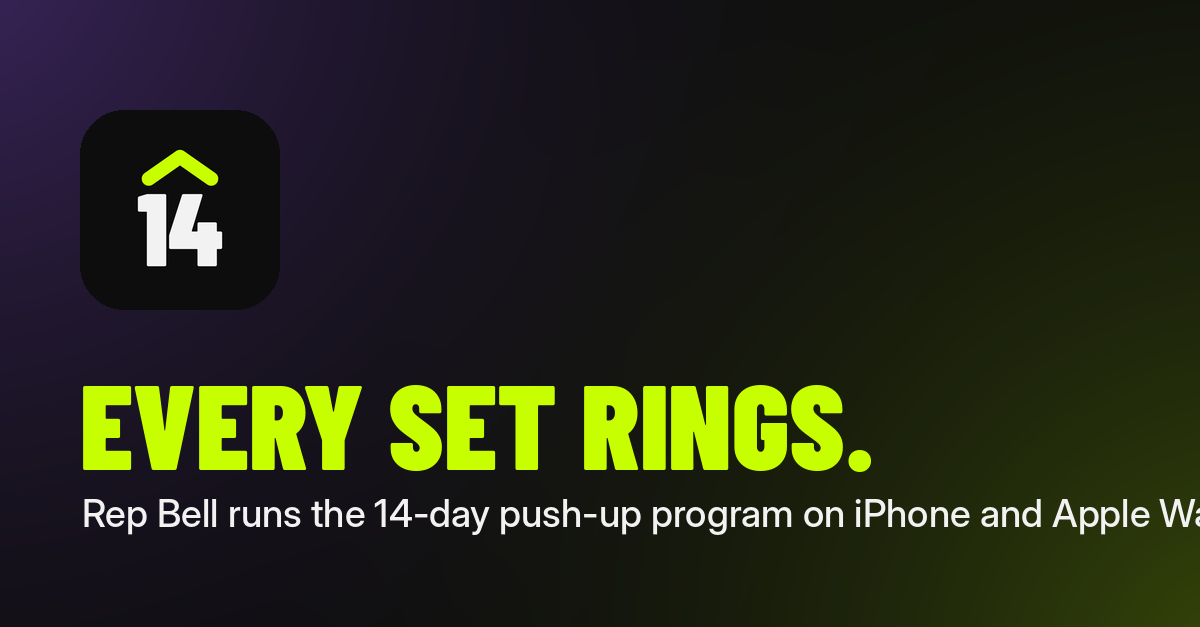
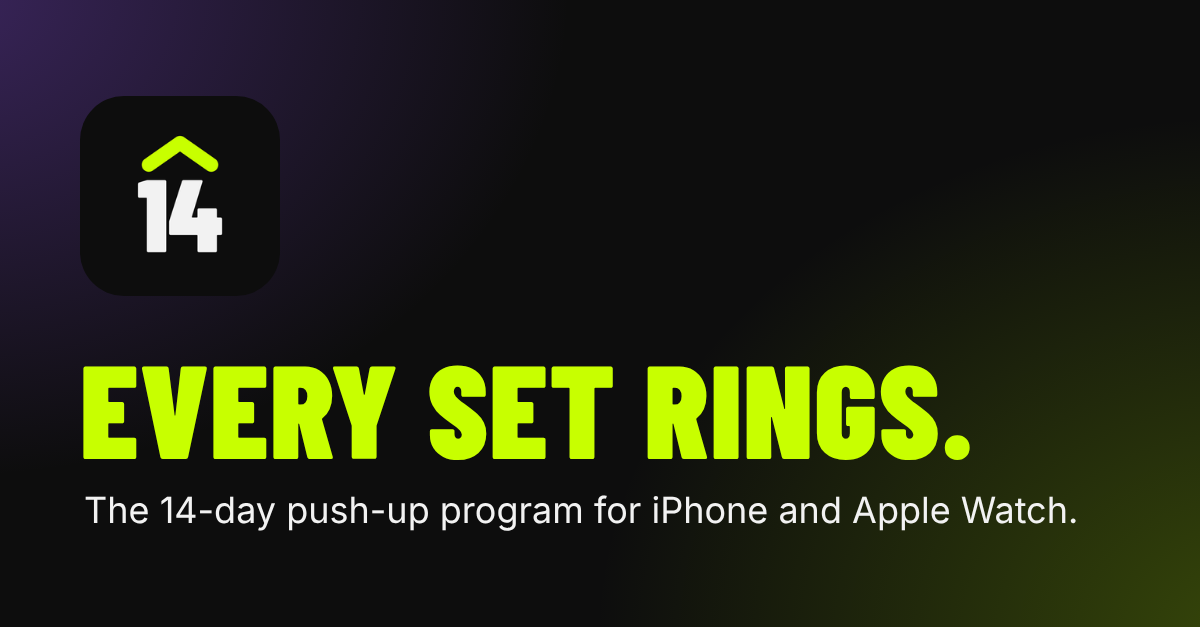
Website review fixes: no coach media on the site, accurate ring and coach claims, Health wording, kicker contrast, main-only manual publish, site go-ahead rule
Claude-Session: https://claude.ai/code/session_01JnUP7zL2BBsNy9Ph3f7pPy

diff --git a/site/index.html b/site/index.html
@@ -10,7 +10,7 @@
 <meta property="og:type" content="website">
 <meta property="og:url" content="https://repbell.tangomike.app/">
 <meta property="og:site_name" content="Rep Bell">
-<meta property="og:image" content="https://repbell.tangomike.app/img/og.png?v=1">
+<meta property="og:image" content="https://repbell.tangomike.app/img/og.png?v=2">
 <meta property="og:image:width" content="1200">
 <meta property="og:image:height" content="627">
 <meta property="og:image:alt" content="Rep Bell: Every set rings.">
@@ -18,18 +18,18 @@
 <meta name="theme-color" content="#0D0D0D">
 <link rel="icon" href="/favicon.ico" sizes="any"><link rel="icon" type="image/png" href="/favicon.png">
 <link rel="apple-touch-icon" href="/apple-touch-icon.png">
-<link rel="stylesheet" href="/site.css?v=1">
+<link rel="stylesheet" href="/site.css?v=2">
 </head>
 <body>
 <div class="wrap">
-  <nav aria-label="Rep Bell"><a class="brand" href="/"><img src="/img/icon.png" alt="" width="36" height="36">Rep Bell</a><a class="link" href="/support">Support</a><a class="link" href="/privacy">Privacy</a></nav>
+  <nav aria-label="Rep Bell"><a class="brand" href="/" aria-current="page"><img src="/img/icon.png" alt="" width="36" height="36">Rep Bell</a><a class="link" href="/support">Support</a><a class="link" href="/privacy">Privacy</a></nav>
 
   <header class="hero">
     <div>
       <h1 class="display">Every set<span>rings.</span></h1>
       <p class="lede">Rep Bell runs the 14-day push-up program for you. It works out every set, spreads them across your day, rings when each one is due, and logs it in one tap on iPhone and Apple Watch.</p>
       <div class="ctas"><span class="btn soon">Coming soon to the App Store</span></div>
-      <p class="fine">The 14-day program is free. Workouts and Coach voice are $4.99, once. No subscription, no account, no ads. Everything stays on your phone.</p>
+      <p class="fine">The 14-day program is free. Workouts and Coach voice are $4.99 (US), once. No subscription, no account, no ads. Everything stays on your phone.</p>
     </div>
     <div class="duo">
       <img src="/img/today-between-sets.webp" alt="Rep Bell's Today screen: Day 3 of 14, 24 push-ups in 25 minutes, with today's sets below." width="640" height="1351">
@@ -53,7 +53,7 @@
         <div class="txt">
           <p class="kicker">Your day, your way</p>
           <h2 id="days">Ring or quiet. You pick each morning.</h2>
-          <p>Each program day starts with an alarm at your wake time. Choose <strong>Ring</strong> and every set rings through silent mode, or <strong>Quiet</strong> for a day of meetings, with sets as silent banners. Missed sets are counted, never hidden, and the program carries on.</p>
+          <p>Each program day starts with an alarm at your wake time. Choose <strong>Ring</strong> and sets ring through silent mode (on the busiest days at most every 30 minutes, with banners in between), or <strong>Quiet</strong> for a day of meetings, with sets as silent banners. Missed sets are counted, never hidden, and the program carries on.</p>
           <p>Day 8 and Day 15 are test days, so you see exactly how far you've come.</p>
         </div>
         <img src="/img/progress.webp" alt="Progress: your max went from 40 on Day 1 to 46 on Day 8, up 15 percent." width="640" height="1351" loading="lazy">
@@ -61,14 +61,11 @@
     </section>
 
     <section class="s" aria-labelledby="desk">
-      <div class="split flip">
-        <div class="txt">
+      <div class="solo">
           <p class="kicker">For days spent sitting</p>
           <h2 id="desk">A desk stretch every hour.</h2>
-          <p>Turn on Desk stretch and Rep Bell sends a quiet nudge every hour on weekdays, with a different stretch each time: neck, shoulders, hips, back. It walks you through it, both sides, with a timer.</p>
+          <p>Turn on Desk stretch and Rep Bell sends a quiet nudge every hour on weekdays, with a different stretch each time, for your neck, shoulders, chest, hips or legs. It walks you through it, both sides, with a timer.</p>
           <p>It's free, it works whether or not a program is running, and it never lands on top of a set.</p>
-        </div>
-        <img src="/img/desk-stretch.webp" alt="A desk stretch, shown step by step with a timer." width="640" height="1351" loading="lazy">
       </div>
     </section>
 
@@ -87,7 +84,7 @@
     <section class="s" aria-labelledby="coach">
       <p class="kicker">Coach voice</p>
       <h2 id="coach">A coach that reads your numbers.</h2>
-      <p>After each set, on iPhone and Apple Watch, a short line built from your own counts. Pick the voice you want, or leave it off.</p>
+      <p>After each set you log in the app or on Apple Watch, a short line built from your own counts. Pick the voice you want, or leave it off.</p>
       <div class="voices">
         <div class="voice coaching"><b>Coaching</b><q>420 is your best day yet, up from 380.</q></div>
         <div class="voice push"><b>Push</b><q>The voice saying you've done enough shows up every day. It hasn't been right yet.</q></div>
@@ -100,7 +97,7 @@
       <h2 id="price">The program is free. For good.</h2>
       <div class="price">
         <div class="card"><h3>Free</h3><p class="tag">Everything you need for the 14 days</p><ul><li>Every set worked out from your max</li><li>Alarms and alerts at each set</li><li>One-tap logging on iPhone and Apple Watch</li><li>Progress and test days</li><li>Hourly desk stretch on weekdays</li></ul></div>
-        <div class="card paid"><h3>$4.99, once</h3><p class="tag">Workouts and Coach voice</p><ul><li>Guided Workouts for your time and gear</li><li>Fit my time, from 5 to 45 minutes</li><li>Coach voice: Coaching or Push</li><li>No subscription</li></ul></div>
+        <div class="card paid"><h3>$4.99 (US), once</h3><p class="tag">Workouts and Coach voice</p><ul><li>Guided Workouts for your time and gear</li><li>Fit my time, from 5 to 45 minutes</li><li>Coach voice: Coaching or Push</li><li>No subscription</li></ul></div>
       </div>
     </section>
 
@@ -119,7 +116,7 @@
 
   <footer>
     <div class="row"><span>Made by Graham D. at <a href="https://tangomike.app">tangomike.app</a></span><a href="/support">Support</a><a href="/privacy">Privacy</a><a href="mailto:support@tangomike.app?subject=Rep%20Bell">support@tangomike.app</a></div>
-    <p class="note">Rep Bell is not medical advice. Check with a doctor before starting a new exercise program. Apple, Apple Watch, iPhone and Apple Intelligence are trademarks of Apple Inc.</p>
+    <p class="note">Rep Bell is not medical advice. Check with a doctor before starting a new exercise program. Apple, Apple Watch, iPhone and Apple Intelligence are trademarks of Apple Inc. App Store is a service mark of Apple Inc.</p>
   </footer>
 </div>
 </body>

diff --git a/site/privacy.html b/site/privacy.html
@@ -7,24 +7,25 @@
 <meta name="description" content="Rep Bell collects nothing. No account, no server, no ads, no tracking. Your sets and progress stay on your iPhone and Apple Watch.">
 <meta property="og:title" content="Rep Bell Privacy">
 <meta property="og:description" content="Rep Bell collects nothing. No account, no server, no ads, no tracking. Your sets and progress stay on your iPhone and Apple Watch.">
-<meta property="og:image" content="https://repbell.tangomike.app/img/og.png?v=1">
+<meta property="og:image" content="https://repbell.tangomike.app/img/og.png?v=2">
 <meta name="theme-color" content="#0D0D0D">
 <link rel="icon" href="/favicon.ico" sizes="any"><link rel="icon" type="image/png" href="/favicon.png">
 <link rel="apple-touch-icon" href="/apple-touch-icon.png">
-<link rel="stylesheet" href="/site.css?v=1">
+<link rel="stylesheet" href="/site.css?v=2">
 </head>
 <body>
 <div class="wrap">
   <nav aria-label="Rep Bell"><a class="brand" href="/"><img src="/img/icon.png" alt="" width="36" height="36">Rep Bell</a><a class="link" href="/support">Support</a><a class="link" href="/privacy" aria-current="page">Privacy</a></nav>
+  <main>
   <div class="doc"><h1>Privacy.</h1><p class="lede">Short version: Rep Bell collects nothing. There's no account, no server, no ads and no tracking. Everything stays on your iPhone and Apple Watch.</p><p class="updated">Last updated 25 November 2026</p></div>
-  <main class="docbody">
+  <div class="docbody">
     <p>Rep Bell is made by Graham D. This policy covers the Rep Bell app for iPhone and Apple Watch, and this website.</p>
     <h2>What Rep Bell collects</h2>
     <p>Nothing. Rep Bell has no account, no server and no analytics, and it contains no advertising or third-party tracking code. Everything you enter and everything the app records stays on your iPhone and Apple Watch.</p>
     <h2>What stays on your devices</h2>
     <p>Your push-up maximum, wake and bed times, the program schedule, the sets you log, your Workouts history and your settings are stored only on your devices. Deleting the app deletes them.</p>
     <h2>Apple Health</h2>
-    <p>If you allow it, Rep Bell saves finished Workouts sessions and push-ups to Apple Health. It only writes to Health; it never reads your Health data. You can turn this off at any time in Rep Bell's settings, the Health app or iPhone Settings. Entries already saved to Apple Health stay there until you delete them in Health.</p>
+    <p>If you allow it, Rep Bell saves finished Workouts sessions, and each finished push-up day as one strength workout, to Apple Health. It only writes to Health; it never reads your Health data. You can turn this off at any time: push-up days in Rep Bell's Settings, sessions in Workouts settings, or both in the Health app or iPhone Settings. Entries already saved to Apple Health stay there until you delete them in Health.</p>
     <h2>Alarms and notifications</h2>
     <p>Alarms and alerts for your sets and desk stretches are scheduled on your device. Nothing about them is sent anywhere.</p>
     <h2>Coach voice</h2>
@@ -32,13 +33,14 @@
     <h2>Purchases</h2>
     <p>The one-time unlock is sold through the App Store. Apple handles payment; Rep Bell only receives a confirmation on your device that the unlock is active. Rep Bell never sees your payment details.</p>
     <h2>This website</h2>
-    <p>This site has no cookies, no analytics and no scripts. It's hosted by Cloudflare, which sees each request like any website does (your IP address and the kind of device), not anything from the app.</p>
+    <p>This site has no cookies, no analytics and no scripts. It's hosted by Cloudflare, with no Cloudflare cookies or tracking turned on, which sees each request like any website does (your IP address and the kind of device), not anything from the app.</p>
     <h2>Children</h2>
     <p>Rep Bell is not directed at children under 13 and collects no data from anyone.</p>
     <h2>Changes</h2>
     <p>If this policy changes, the new version will be posted on this page with a new date.</p>
     <h2>Contact</h2>
     <p>Questions about privacy: <a href="mailto:support@tangomike.app?subject=Rep%20Bell%20privacy">support@tangomike.app</a>, with "Rep Bell" in the subject.</p>
+  </div>
   </main>
   <footer>
     <div class="row"><span>Made by Graham D. at <a href="https://tangomike.app">tangomike.app</a></span><a href="/support">Support</a><a href="/privacy">Privacy</a><a href="mailto:support@tangomike.app?subject=Rep%20Bell">support@tangomike.app</a></div>

diff --git a/site/site.css b/site/site.css
@@ -1,7 +1,7 @@
 @font-face { font-family:"Barlow Condensed"; src:url("/fonts/barlow-condensed-800.woff") format("woff"); font-weight:800; font-display:swap; }
 @font-face { font-family:"Barlow Condensed"; src:url("/fonts/barlow-condensed-900.woff") format("woff"); font-weight:900; font-display:swap; }
 /* The app's look: near-black ground, a violet glow behind the top, a volt glow from the bottom right. Volt means now, violet means earned. */
-:root { --ground:#0D0D0D; --surface:#1A1A1A; --line:#2A2A2A; --ink:#F2F2F2; --muted:#A0A0A0; --volt:#C8FF00; --on-volt:#0D0D0D; --violet:#A066FF; --flood:#202B06; }
+:root { --ground:#0D0D0D; --surface:#1A1A1A; --line:#2A2A2A; --ink:#F2F2F2; --muted:#A0A0A0; --volt:#C8FF00; --on-volt:#0D0D0D; --violet:#A066FF; --violet-text:#C4A6FF; --flood:#202B06; }
 * { box-sizing:border-box; }
 html { -webkit-text-size-adjust:100%; background:var(--ground); }
 body { margin:0; min-height:100vh; color:var(--ink); font-family:system-ui,-apple-system,"Segoe UI",sans-serif; -webkit-font-smoothing:antialiased; background:transparent; isolation:isolate; }
@@ -35,7 +35,7 @@ nav a.link:hover, nav a.link[aria-current] { color:var(--ink); }
 .duo .low { margin-top:72px; }
 /* sections */
 section.s { padding:88px 0; border-top:1px solid var(--line); }
-.kicker { font-size:14px; letter-spacing:.14em; text-transform:uppercase; color:var(--violet); margin:0 0 14px; font-weight:600; }
+.kicker { font-size:14px; letter-spacing:.14em; text-transform:uppercase; color:var(--violet-text); margin:0 0 14px; font-weight:600; }
 h2 { margin:0; font-family:"Barlow Condensed",system-ui,sans-serif; font-weight:900; text-transform:uppercase; font-size:clamp(40px, 5.4vw, 68px); line-height:.95; }
 section p { color:var(--muted); font-size:18px; line-height:1.6; max-width:36em; }
 section p strong { color:var(--ink); font-weight:600; }
@@ -47,10 +47,11 @@ section p strong { color:var(--ink); font-weight:600; }
 .split { display:grid; grid-template-columns:1fr 1fr; gap:56px; align-items:center; }
 .split img { width:100%; max-width:300px; height:auto; display:block; margin:0 auto; filter:drop-shadow(0 24px 36px rgba(0,0,0,.5)); }
 .split.flip .txt { order:2; }
+.solo { max-width:760px; }
 .voices { display:grid; gap:14px; margin-top:28px; max-width:36em; }
 .voice { border:1px solid var(--line); background:rgba(26,26,26,.6); border-radius:16px; padding:18px 20px; }
 .voice b { display:block; font-size:13px; letter-spacing:.12em; text-transform:uppercase; margin-bottom:8px; }
-.voice.coaching b { color:var(--violet); }
+.voice.coaching b { color:var(--violet-text); }
 .voice.push b { color:var(--volt); }
 .voice q { color:var(--ink); font-size:18px; line-height:1.5; quotes:none; }
 .ticks { list-style:none; padding:0; margin:24px 0 0; display:grid; gap:12px; max-width:36em; }

diff --git a/site/support.html b/site/support.html
@@ -7,17 +7,18 @@
 <meta name="description" content="Help with Rep Bell: alerts, missed sets, restoring a purchase, refunds and your data.">
 <meta property="og:title" content="Rep Bell Support">
 <meta property="og:description" content="Help with Rep Bell: alerts, missed sets, restoring a purchase, refunds and your data.">
-<meta property="og:image" content="https://repbell.tangomike.app/img/og.png?v=1">
+<meta property="og:image" content="https://repbell.tangomike.app/img/og.png?v=2">
 <meta name="theme-color" content="#0D0D0D">
 <link rel="icon" href="/favicon.ico" sizes="any"><link rel="icon" type="image/png" href="/favicon.png">
 <link rel="apple-touch-icon" href="/apple-touch-icon.png">
-<link rel="stylesheet" href="/site.css?v=1">
+<link rel="stylesheet" href="/site.css?v=2">
 </head>
 <body>
 <div class="wrap">
   <nav aria-label="Rep Bell"><a class="brand" href="/"><img src="/img/icon.png" alt="" width="36" height="36">Rep Bell</a><a class="link" href="/support" aria-current="page">Support</a><a class="link" href="/privacy">Privacy</a></nav>
+  <main>
   <div class="doc"><h1>Support.</h1><p class="lede">Email <a href="mailto:support@tangomike.app?subject=Rep%20Bell">support@tangomike.app</a> with "Rep Bell" in the subject. Include your iPhone model and iOS version if something isn't working.</p></div>
-  <main class="docbody">
+  <div class="docbody">
     <h2>The bell isn't ringing</h2>
     <p>In Rep Bell, go to Settings &gt; Alerts, tap Send a test alert, then lock your phone. If it doesn't arrive, allow notifications and alarms for Rep Bell in iPhone Settings, and check that a Focus isn't silencing it. On Ring days, sets ring like an alarm, so also allow Alarms for Rep Bell in iPhone Settings.</p>
     <h2>I missed a set</h2>
@@ -34,6 +35,7 @@
     <p>Rep Bell keeps everything on your devices. See the <a href="/privacy">privacy policy</a>.</p>
     <h2>What it needs</h2>
     <p>iPhone with iOS 26 or later; Apple Watch with watchOS 26 or later for the Watch app. Coach voice uses Apple Intelligence when it's on, and written lines otherwise.</p>
+  </div>
   </main>
   <footer>
     <div class="row"><span>Made by Graham D. at <a href="https://tangomike.app">tangomike.app</a></span><a href="/support">Support</a><a href="/privacy">Privacy</a><a href="mailto:support@tangomike.app?subject=Rep%20Bell">support@tangomike.app</a></div>

diff --git a/site/404.html b/site/404.html
@@ -7,17 +7,18 @@
 <meta name="description" content="That page isn't here.">
 <meta property="og:title" content="Rep Bell: page not found">
 <meta property="og:description" content="That page isn't here.">
-<meta property="og:image" content="https://repbell.tangomike.app/img/og.png?v=1">
+<meta property="og:image" content="https://repbell.tangomike.app/img/og.png?v=2">
 <meta name="theme-color" content="#0D0D0D">
 <link rel="icon" href="/favicon.ico" sizes="any"><link rel="icon" type="image/png" href="/favicon.png">
 <link rel="apple-touch-icon" href="/apple-touch-icon.png">
-<link rel="stylesheet" href="/site.css?v=1">
+<link rel="stylesheet" href="/site.css?v=2">
 </head>
 <body>
 <div class="wrap">
   <nav aria-label="Rep Bell"><a class="brand" href="/"><img src="/img/icon.png" alt="" width="36" height="36">Rep Bell</a><a class="link" href="/support">Support</a><a class="link" href="/privacy">Privacy</a></nav>
+  <main>
   <div class="doc"><h1>Not here.</h1><p class="lede">That page doesn't exist. Try the <a href="/">home page</a>.</p></div>
-  <main class="docbody"></main>
+  <div class="docbody"></main>
   <footer>
     <div class="row"><span>Made by Graham D. at <a href="https://tangomike.app">tangomike.app</a></span><a href="/support">Support</a><a href="/privacy">Privacy</a><a href="mailto:support@tangomike.app?subject=Rep%20Bell">support@tangomike.app</a></div>
     <p class="note">Rep Bell is not medical advice. Check with a doctor before starting a new exercise program.</p>

diff --git a/docs/roadmap.md b/docs/roadmap.md
@@ -52,7 +52,9 @@ journey, the platform check, the schedule engine spec and the copy deck. Where t
 - **Guard:** `scripts/privacy_guard.py` enforces the on-device promise in CI, with a self-test.
 - **Device checks:** alerts and Time Sensitive delivery, the test alarm through Silent and Focus, Watch actions and
   Double Tap, the widget, haptics, VoiceOver, Reduce Motion, Larger Text, Health permission.
-- **Websites:** none yet for Rep Bell. tangomike.app (grahamdeno/tangomike) lists Graham's apps.
+- **Websites:** repbell.tangomike.app (landing, /privacy, /support) from `site/`, published by `.github/workflows/site.yml`
+  to the Cloudflare Pages project `tangomike-repbell`. The site describes items 19 and 20; if either leaves 1.0, its
+  lines come off the site before the next publish. tangomike.app (grahamdeno/tangomike) lists Graham's apps.
 - **Compiled-in dates or values:** the program table (percent and interval per day) in the schedule engine.
 
 ## Steps that can't be undone (this product)

diff --git a/CLAUDE.md b/CLAUDE.md
@@ -37,7 +37,8 @@ Everything not listed here uploads and deploys nothing. If you find a trigger th
 - **Graham presses Submit for Review and Release.** Agents stop right before them. Never automate either.
 - **Three go-aheads, never mixed:** "merge" allows merging named PRs that trigger nothing above; "test build" allows
   one TestFlight upload for testing; "ship [version] at [commit]" comes after the go-live verdict. None implies
-  another. If unsure which applies, ask.
+  another. If unsure which applies, ask. A merge that changes `site/**` or the site workflow also changes the live
+  site, so it needs Graham's go for that site change by name; a merge go alone never covers it.
 - **Never delete, force-push, rename, archive or transfer** anything without Graham's go.
 - **Purchases and prices:** Graham approves each at Stage 3. Product IDs are permanent. The unlock product
   `com.grahamdeno.repbell.unlock` exists for a later version: never delete or change it, its price, or anything else
